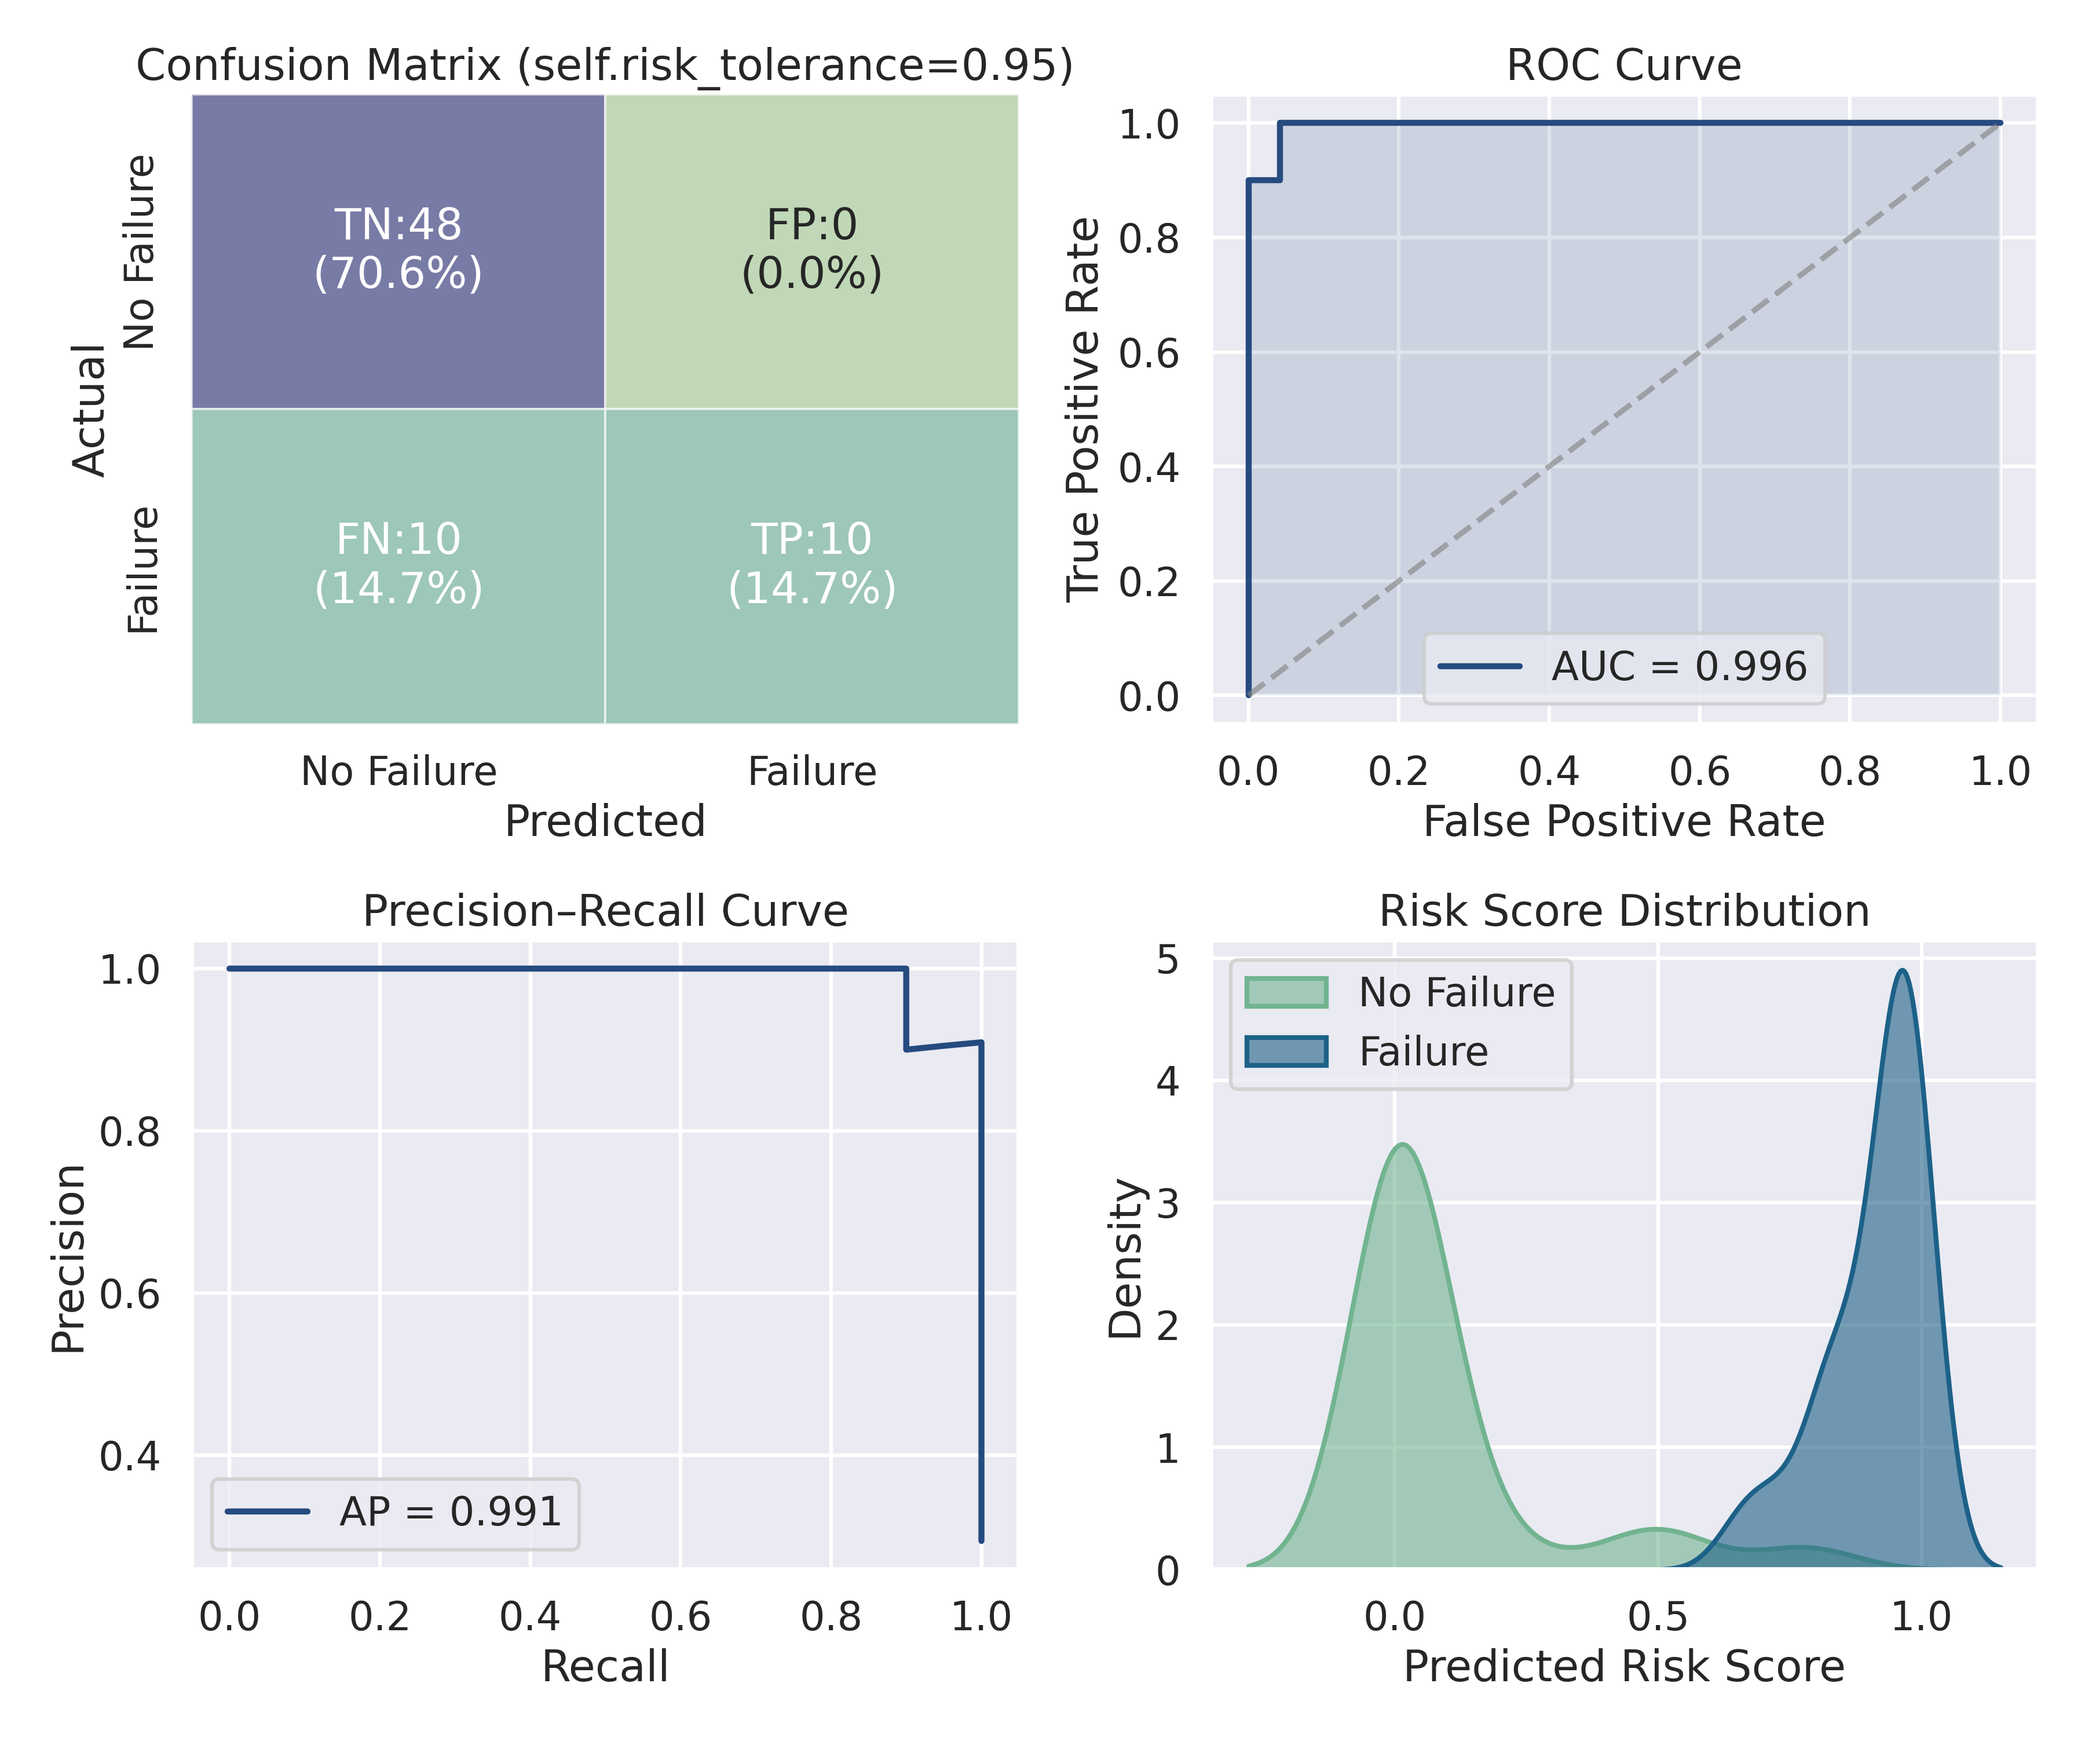
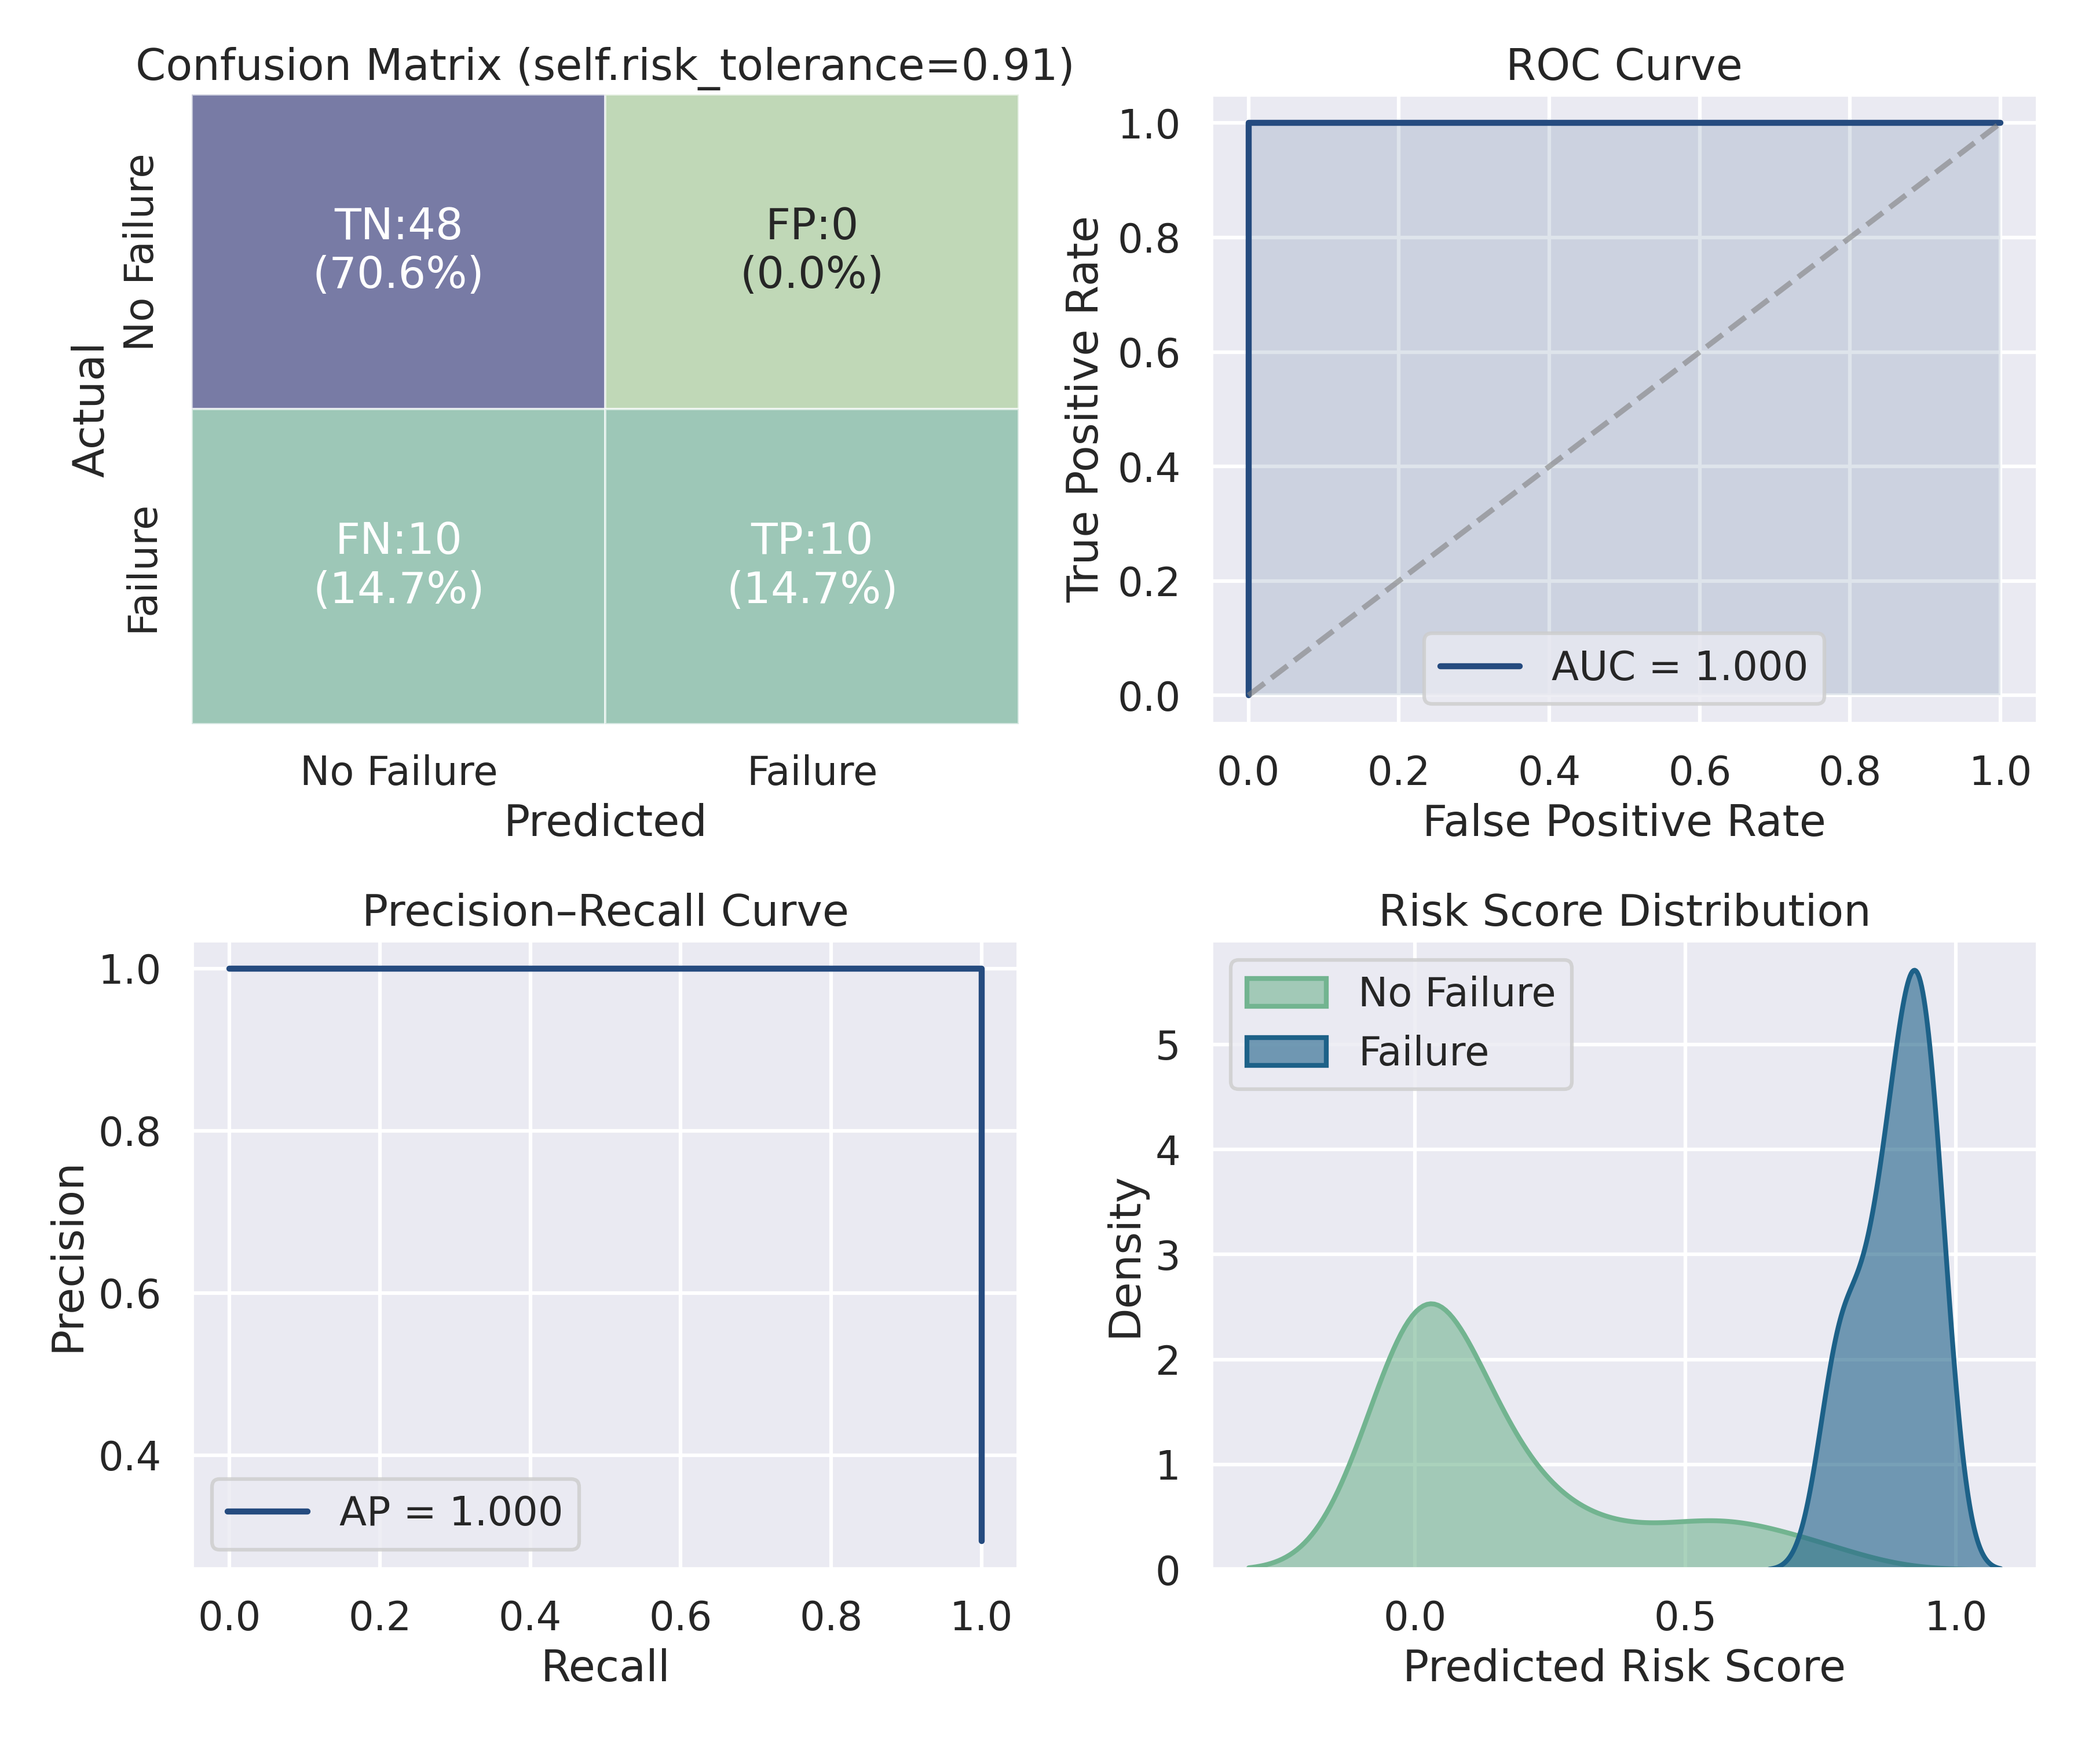
LOTS of bug fixing an improvements

diff --git a/main.py b/main.py
@@ -2,7 +2,7 @@ from sklearn.metrics import roc_curve, roc_auc_score, precision_recall_curve, av
 from sklearn.model_selection import RandomizedSearchCV, train_test_split
 from sklearn.linear_model import LogisticRegression
 from sklearn.ensemble import RandomForestClassifier
-from sklearn.preprocessing import StandardScaler
+from sklearn.preprocessing import RobustScaler
 from sklearn.pipeline import Pipeline
 import matplotlib.pyplot as plt
 import seaborn as sns 
@@ -90,7 +90,7 @@ class RiskEvalModel:
 
     def train_run(self):
         '''
-        Created a pipline where StandardScaler[z-scalling] is first applied and then
+        Created a pipline where RobustScaler is first applied and then
         piped to Logistic Regression for model fitting
         '''
         
@@ -98,15 +98,17 @@ class RiskEvalModel:
         
         #Creates the pipline for the model to work
         pipe = Pipeline([
-            ("scaler", StandardScaler()),
+            ("scaler", RobustScaler()),
             ("clf", LogisticRegression(
                 class_weight="balanced",
+                l1_ratio=1,       # Pure L1
+                solver='liblinear', # Supports L1
                 max_iter=3000
             ))
         ])
 
         param_dist = {
-            "clf__C": np.logspace(-5, -1, 50) # Range shifted from -3:2 to -5:-1
+            "clf__C": np.logspace(-5, 7 , 50) 
         }
         
         #Finds the best paramater for LogisticRegression
@@ -115,7 +117,7 @@ class RiskEvalModel:
             param_distributions=param_dist,
             n_iter=50,
             scoring="roc_auc",
-            cv=5,
+            cv=3,
             random_state=42,
             n_jobs=-1,
             verbose = 1,
@@ -337,7 +339,9 @@ class FailureClassificationModel:
                                                         )
         
 
-    def train_run(self,param):
+    # Replace your existing train_run method in FailureClassificationModel with this:
+
+    def train_run(self, param):
         remaining_params = [i for i in self.classifications if i != param]
         self.dataset(self.filename + self.ext,
                     param,
@@ -346,26 +350,44 @@ class FailureClassificationModel:
                     self.ignore + remaining_params + [self.target]
                     )
         
-        #Similar to RiskEvalModel a pipeline is created where StandardScaler(Z-scaling is applied)
-        #then the normalized data is passed to LogisticRegression for training
+        # CHANGED: Added Hyperparameter Tuning to the Classification Step
         pipe = Pipeline([
-            ("scaler", StandardScaler()),
-            ("clf", LogisticRegression(class_weight="balanced", max_iter=3000))
+            ("scaler", RobustScaler()),
+            ("clf", LogisticRegression(
+                class_weight="balanced",
+                l1_ratio=1,       # Pure L1
+                solver='liblinear', # Supports L1
+                max_iter=5000
+            ))
         ])
 
-        pipe.fit(self.X_train,self.y_train)
+        # Search for the optimal C to separate the classes
+        param_dist = {
+            "clf__C": np.logspace(-2, 2, 20) 
+        }
+
+        search = RandomizedSearchCV(
+            pipe,
+            param_distributions=param_dist,
+            n_iter=20,
+            scoring="roc_auc",
+            cv=3,  # Lower CV because failure-specific datasets are smaller
+            random_state=42,
+            n_jobs=-1,
+            verbose=0,
+            error_score='raise'
+        )
+
+        search.fit(self.X_train, self.y_train)
         
-        #y_prob is used to get the exact probability
-        self.y_prob = pipe.predict_proba(self.X_test)[:, 1]
-        #Passes the roc score
+        # Predict using the best found model
+        self.y_prob = search.predict_proba(self.X_test)[:, 1]
         self.roc = roc_auc_score(self.y_test, self.y_prob)
         
-        #calls plot method which is withing the class
-        self.plot(self.roc,0.50,param)
+        self.plot(self.roc, 0.50, param)
 
-        #Dont need this but for tinkering with the models in the future
-        model_name= f"Risk_eval_{param}.pkl"
-        jb.dump(pipe,model_name)
+        model_name = f"Risk_eval_{param}.pkl"
+        jb.dump(search, model_name) # Dump the search object, not just the pipe
         
         return model_name
     
@@ -643,9 +665,11 @@ class FailurePredictionSystem:
         #Gives the exact probabilty of a Failure happening
         raw_risk_prob = float(self.risk_model.predict_proba(inference_df)[:, 1][0])
         
+        #creates a list called prob_history
         if not hasattr(self, 'prob_history'):
             self.prob_history = []
-            
+        
+        #Saves the last 3 predictions    
         self.prob_history.append(raw_risk_prob)
         if len(self.prob_history) > 3: 
             self.prob_history.pop(0)
@@ -654,17 +678,23 @@ class FailurePredictionSystem:
         
         warning_zone = self.risk_tolerance * self.warning_sensitivity
         
-        if risk_prob >= warning_zone and risk_prob < self.risk_tolerance:
+        # 1. Update Streak Counters
+        if risk_prob >= warning_zone: 
             self.warning_streak += 1
-        elif risk_prob >= self.risk_tolerance:
-            self.warning_streak = 0
         else:
             self.warning_streak = 0
 
+        # 2. Determine Alert Status with INTENSITY OVERRIDE
         if risk_prob >= self.risk_tolerance:
             alert_status = "CRITICAL"
+            
+        # NEW: High Intensity Override (The Fix)
+        elif risk_prob >= 0.60: 
+            alert_status = "WARNING" 
+            # Optional: Force streak to max to keep alert active if risk drops slightly
+            self.warning_streak = max(self.warning_streak, self.persistence_threshold)
+            
         elif risk_prob >= warning_zone:
-            self.warning_streak += 1
             if self.warning_streak >= self.persistence_threshold:
                 alert_status = "WARNING"
             else:
@@ -729,6 +759,12 @@ class FailurePredictionSystem:
             
             print("-" * 50)
             print(f"Optimal Parameters: {best_params}")
+            
+            self.history = []
+            if hasattr(self, 'prob_history'):
+                self.prob_history = [] 
+            self.warning_streak = 0
+            
             return best_params
         
 if __name__ == '__main__':
@@ -738,7 +774,7 @@ if __name__ == '__main__':
     FinalSystem = FailurePredictionSystem(
         'ai4i2020.csv',
         'Machine failure',
-        0.80,
+        0.765,
         ignore_list,
         target_labels
     )

diff --git a/test.py b/test.py
@@ -1,0 +1,3 @@
+import numpy as np 
+
+print(np.logspace(-5,-1,1000))
